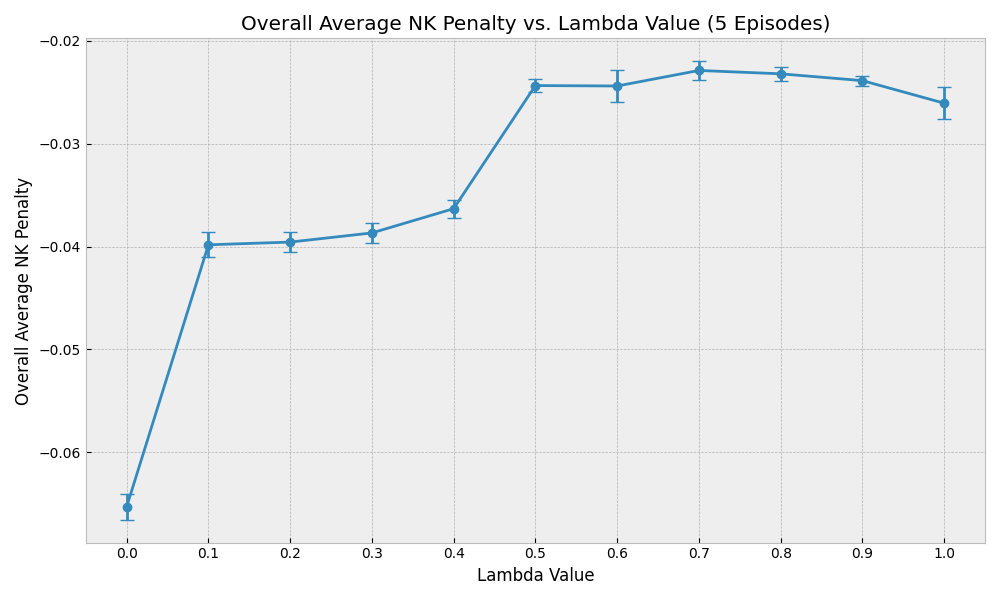
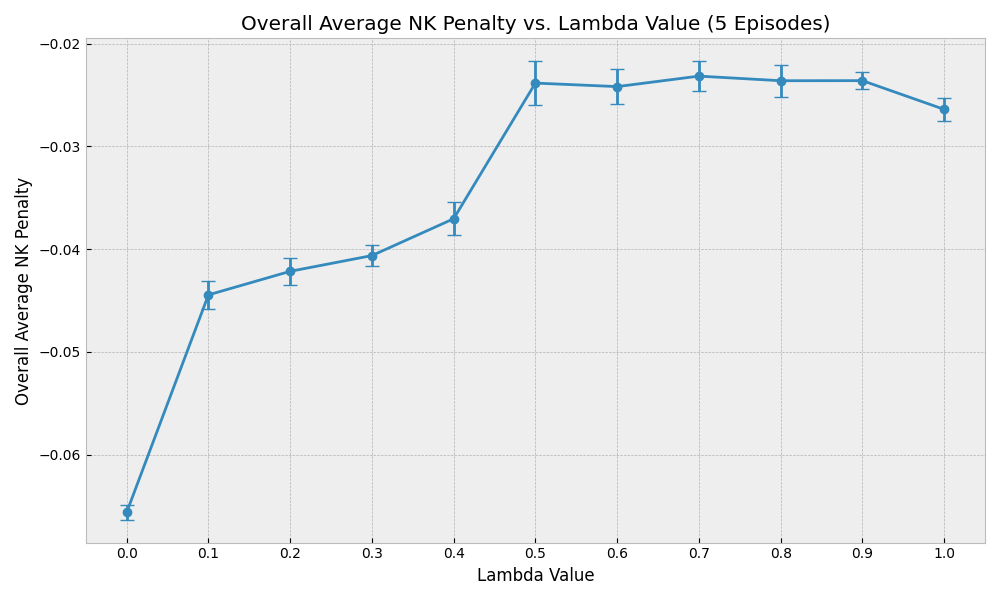
testing surrogates for reward avg

diff --git a/NLOT/test.py b/NLOT/test.py
@@ -4,55 +4,23 @@ import numpy as np
 import pickle
 
 #read in the samples
-"""samples = torch.load("scarvelis_data/conditional_circles.pt").cpu().numpy()[:-1]
+samples = torch.load("scarvelis_data/reward_weighting_data_0_10.pt").cpu().numpy()
 D = 2
-C = 1
+C = 7
 
-# current shape is (4,400,3), reshape to (1600,3)
+# current shape is (3,1000,9), reshape to (3000,3)
 N = samples.shape[0] * samples.shape[1]
-
-
 samples = samples.reshape(N, -1)
-N=400
-samples = samples[:N]
-
-#convert to jax
 samples = jnp.array(samples)
-
-# assume samples.shape = (N, D+C)
-all_samples_ambient = samples[:, :D]
-
-# 1) per‐coord σ, then isotropic σ
+all_samples_ambient = samples[:, :C]
 sigma_per_coord = jnp.std(all_samples_ambient, axis=0, ddof=1)
 sigma_iso = jnp.mean(sigma_per_coord)
-
-# 2) compute rule-of-thumb h0
 factor = (4.0 / (D + 2)) ** (1.0 / (D + 4))
 h0 = factor * N ** (-1.0 / (D + 4)) * sigma_iso
-
-# 3) build a log‐grid around h0
 ks = jnp.linspace(-2, 2, 9)
 h_grid = h0 * (10.0 ** ks)
 
 print("σ per coord:", sigma_per_coord)
 print("σ isotropic:", sigma_iso)
 print("h0 (Silverman):", h0)
-print("candidate h values:", h_grid)"""
-
-
-#read in conditional circles data, and make it a fake testing file, by creating a list of tuples of (time, samples) for each time point in the data, and saving as a pkl
-
-samples = torch.load("scarvelis_data/conditional_circles.pt").cpu().numpy()
-
-samples_0 = (0, jnp.array(samples[0]))
-samples_1 = (0.25, jnp.array(samples[1]))
-samples_2 = (0.5, jnp.array(samples[2]))
-samples_3 = (0.75, jnp.array(samples[3]))
-samples_4 = (1.0, jnp.array(samples[4]))
-
-samples_list = [samples_0, samples_1, samples_2, samples_3, samples_4]
-
-with open("test_data.pkl", "wb") as f:
-    pickle.dump(samples_list, f)
-
-
+print("candidate h values:", h_grid)

diff --git a/DTR-Bench/surrogate_eval_plots.py b/DTR-Bench/surrogate_eval_plots.py
@@ -25,7 +25,7 @@ os.makedirs(PLOT_DIR, exist_ok=True)
 
 parser = argparse.ArgumentParser(description='Evaluate a single agent with a pushforward function.')
 parser.add_argument('--lambda_pushforward', type=float, default=0, help='Lambda value for the pushforward function.')
-parser.add_argument('--workspace_path', type=str, default="../NLOT/2025.05.14/ours.pkl", help='Path to the trained OT workspace pickle file.')
+parser.add_argument('--workspace_path', type=str, default="../NLOT/surrogate_models/ours_new.pkl", help='Path to the trained OT workspace pickle file.')
 parser.add_argument('--all_lambdas', action='store_true', help='Evaluate all lambda values and generate plot')
 args = parser.parse_args()
 LAMBDA_PUSHFORWARD = args.lambda_pushforward

diff --git a/results.md b/results.md
@@ -59,16 +59,21 @@ Learned, w potential
 
 
 CANCER
-Euclidean, no potential
+Euclidean, no potential - 52.8 reward avg. (folder 0?), nk_penalty MAE = 0.0031
     eucl_cancer_3	2.5555343627929688
     eucl_cancer_4	2.4398186206817627
     eucl_cancer_2	2.038227081298828
     eucl_cancer_0	1.648943305015564
     eucl_cancer_1	1.5883475542068481
 
-Learned, no potential
+Euclidean, w. potential - 16.0 reward avg. (eucl_w_p_new), nk_penalty MAE = 0.0031
+
+
+Learned, no potential - 57.9 reward avg. (folder 5), nk_penalty MAE = 0.0075
     NLOT_cancer_4	2.45242977142334
     NLOT_cancer_3	2.095038652420044
     NLOT_cancer_2	1.9149770736694336
     NLOT_cancer_1	1.8525232076644897
     NLOT_cancer_0	1.6159017086029053
+
+Learned, w potential - 75.3 reward avg. (ours_new), nk_penalty MAE = 0.0030
